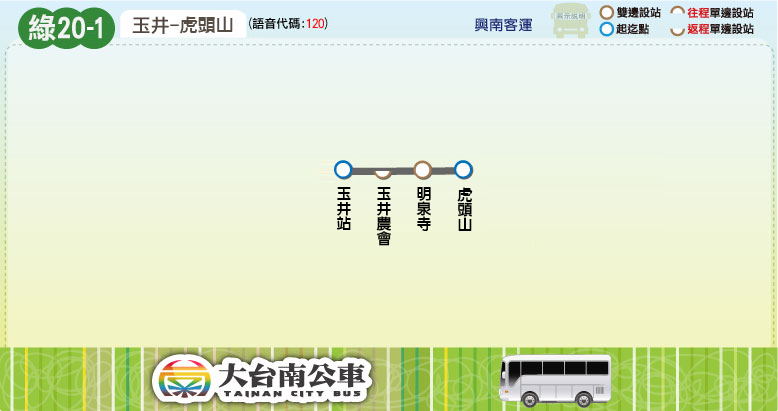
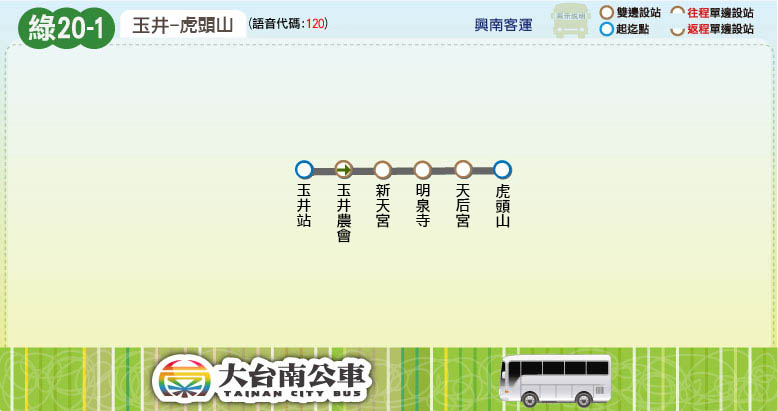
新增站點：綠20-1 (新天宮、天后宮)

diff --git a/route/fare_and_time/green_20_1.js b/route/fare_and_time/green_20_1.js
@@ -1,9 +1,8 @@
 green_20_1_interval_name = ["玉井","虎頭山"];
 green_20_1_interval_stop = [
-["玉井站","玉井農會","明泉寺"], // 玉井
+["玉井站","玉井農會","新天宮","明泉寺","天后宮"], // 玉井
 ["虎頭山"] // 虎頭山
 ];
-green_20_1_stop_time_consume = [0,2,7,10];
 green_20_1_fare = [
 [26],
 [26,26]
